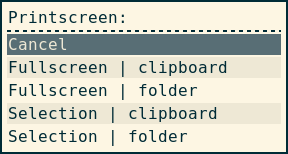
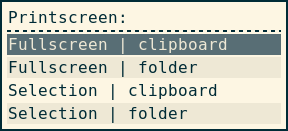
Fix ESC bug

diff --git a/README.md b/README.md
@@ -12,16 +12,15 @@ You can bindsym your i3, e. g., `bindsym $mod+Ctrl+l exec ~/Documents/rofigen/ro
 #!/bin/bash
 
 title="Kawaii faces:"
-widthpercent=10
+widthpercent=13
 
 typeset -A menu
 menu=(
-    [¯\_(ツ)_/¯]="~/sh_kawaiifaces 1"
-    [( ͡° ͜ʖ ͡°)]="~/sh_kawaiifaces 2"
-    [ಠ_ಠ]="~/sh_kawaiifaces 3"
-    [◕‿◕]="~/sh_kawaiifaces 4"
-    [(╯°□°）╯︵ ┻━┻]="~/sh_kawaiifaces 5"
-    [Cancel]=""
+    [1 - ¯\_(ツ)_/¯]="~/sh_kawaiifaces 1"
+    [2 - ( ͡° ͜ʖ ͡°)]="~/sh_kawaiifaces 2"
+    [3 - ಠ_ಠ]="~/sh_kawaiifaces 3"
+    [4 - ◕‿◕]="~/sh_kawaiifaces 4"
+    [5 - (╯°□°）╯︵ ┻━┻]="~/sh_kawaiifaces 5"
 )
 menu_nrows=${#menu[@]}
 ```
@@ -44,7 +43,6 @@ menu=(
   [Selection | folder]="~/sh_printscreen 3"
   [Fullscreen | clipboard]="~/sh_printscreen 2"
   [Fullscreen | folder]="~/sh_printscreen 1"
-  [Cancel]=""
 )
 menu_nrows=${#menu[@]}
 ```
